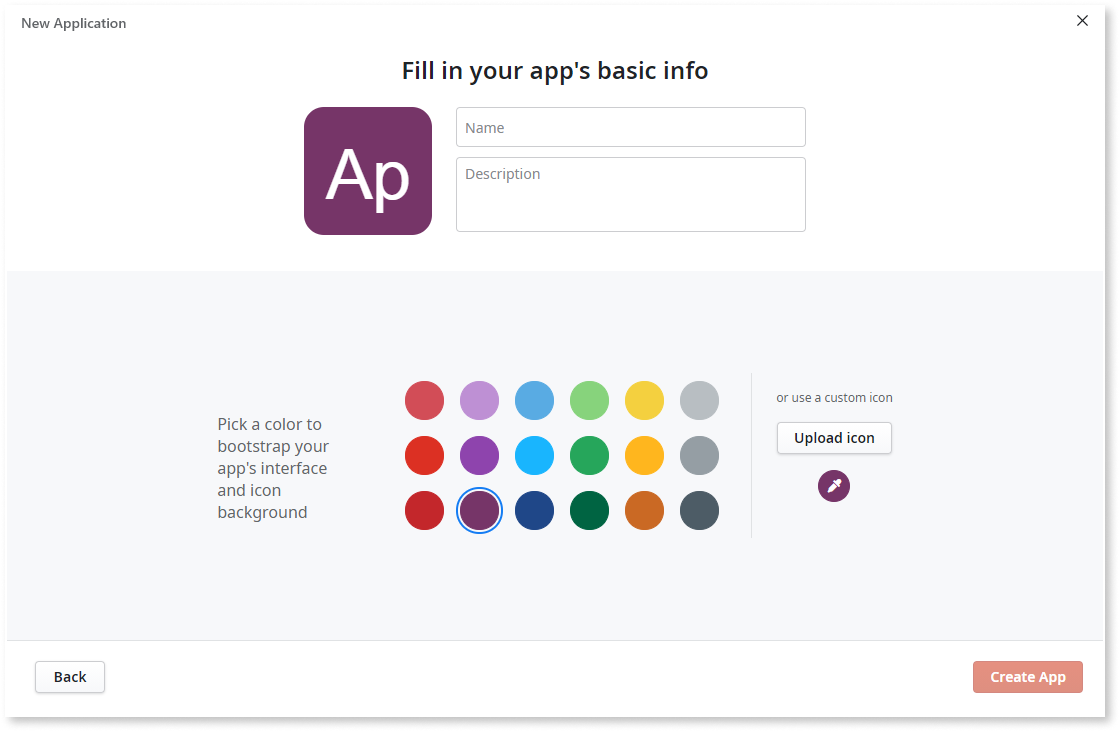
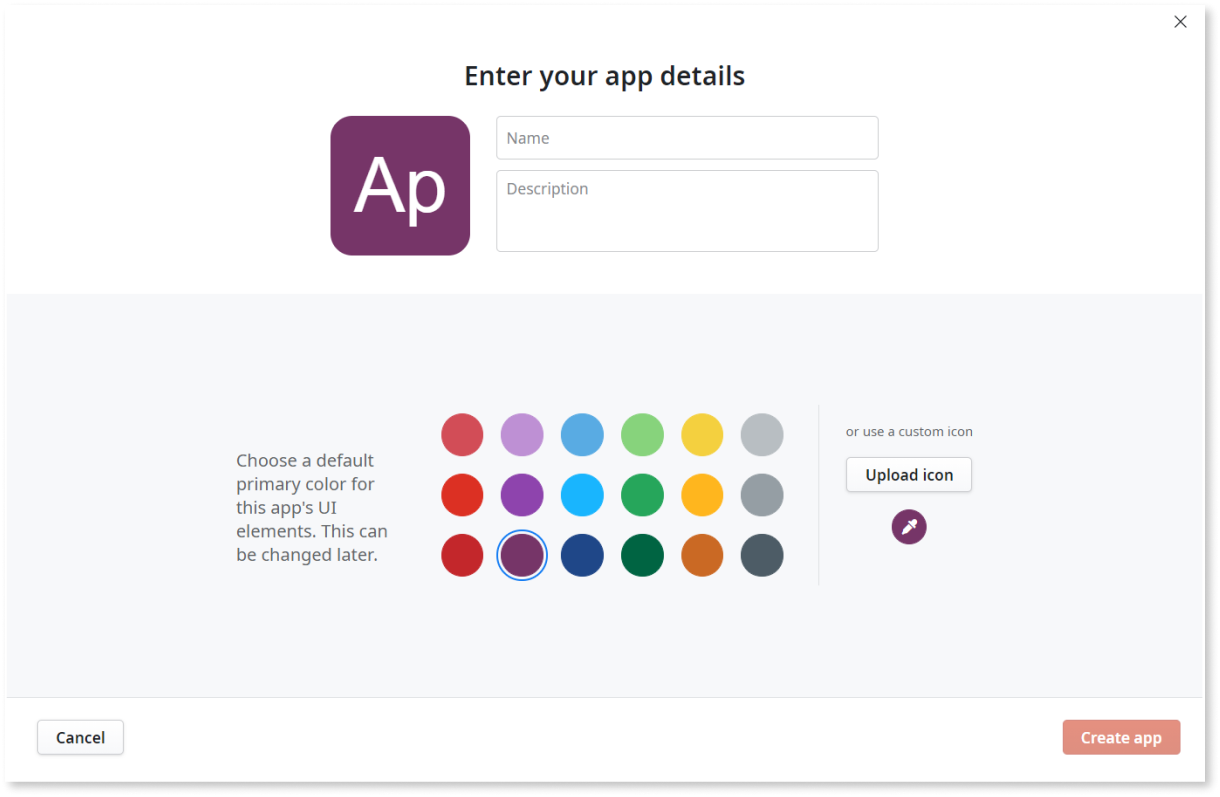
Update first step to reflect small UX change

diff --git a/src/eap/tutorial-1-create-web-app.md b/src/eap/tutorial-1-create-web-app.md
@@ -15,9 +15,9 @@ The TaskList Web App provides service actions which, among other things, can exp
 
 To create **TaskList**: 
 
-1. Launch **Service Studio**, click **New Application**, and select **Web App** and click **Next**.  
+1. Launch **Service Studio**, click **Create**, and select **Web App** and click **Next**.  
 
-    ![Create Web App](images/create-service-ss.png "Create Web App") 
+    ![Create Web App](images/create-web-app-ss.png "Create Web App") 
  
 1. In the next screen call the app **TaskList** and give it a short description. You may choose a color to customize the app’s interface and upload a customized icon. Then click **Create App**.  
 
